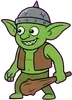
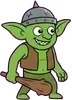
fix: 1.5x character scale, fixed layout box prevents jitter, un-flip goblin idle

diff --git a/src/components/EnemyCharacter.jsx b/src/components/EnemyCharacter.jsx
@@ -652,8 +652,8 @@ export function EnemyCharacter({ phase, enemy, hitKey, raging = false }) {
       >
         <motion.div animate={moveControls} style={{ transform: 'scaleX(-1)', willChange: 'transform' }}>
           {rasterSprites ? (
-            <div style={{ display: 'flex', alignItems: 'flex-end', justifyContent: 'center', overflow: 'visible' }}>
-              <img key={sprite} src={rasterSprites[sprite]} style={{ height: 'min(100px, 22vw)', width: 'auto', display: 'block' }} alt="" />
+            <div style={{ position: 'relative', width: 'min(160px, 35vw)', height: 'min(150px, 33vw)', overflow: 'visible' }}>
+              <img key={sprite} src={rasterSprites[sprite]} style={{ position: 'absolute', bottom: 0, left: '50%', transform: 'translateX(-50%)', height: 'min(150px, 33vw)', width: 'auto' }} alt="" />
               <AnimatePresence>
                 {splashKey !== null && <HitSplash key={splashKey} color={rasterSprites.splashColor} />}
               </AnimatePresence>

diff --git a/src/components/KnightCharacter.jsx b/src/components/KnightCharacter.jsx
@@ -254,11 +254,11 @@ export function KnightCharacter({ phase, hitKey, useRaster }) {
         <motion.div animate={moveControls} style={{ willChange: 'transform' }}>
           {raster ? (
             /* ── Raster sprite swap mode ── */
-            <div style={{ display: 'flex', alignItems: 'flex-end', justifyContent: 'center', overflow: 'visible' }}>
+            <div style={{ position: 'relative', width: 'min(160px, 35vw)', height: 'min(150px, 33vw)', overflow: 'visible' }}>
               <img
                 key={sprite}
                 src={SPRITES[sprite]}
-                style={{ height: 'min(100px, 22vw)', width: 'auto', display: 'block' }}
+                style={{ position: 'absolute', bottom: 0, left: '50%', transform: 'translateX(-50%)', height: 'min(150px, 33vw)', width: 'auto' }}
                 alt=""
               />
               <AnimatePresence>
